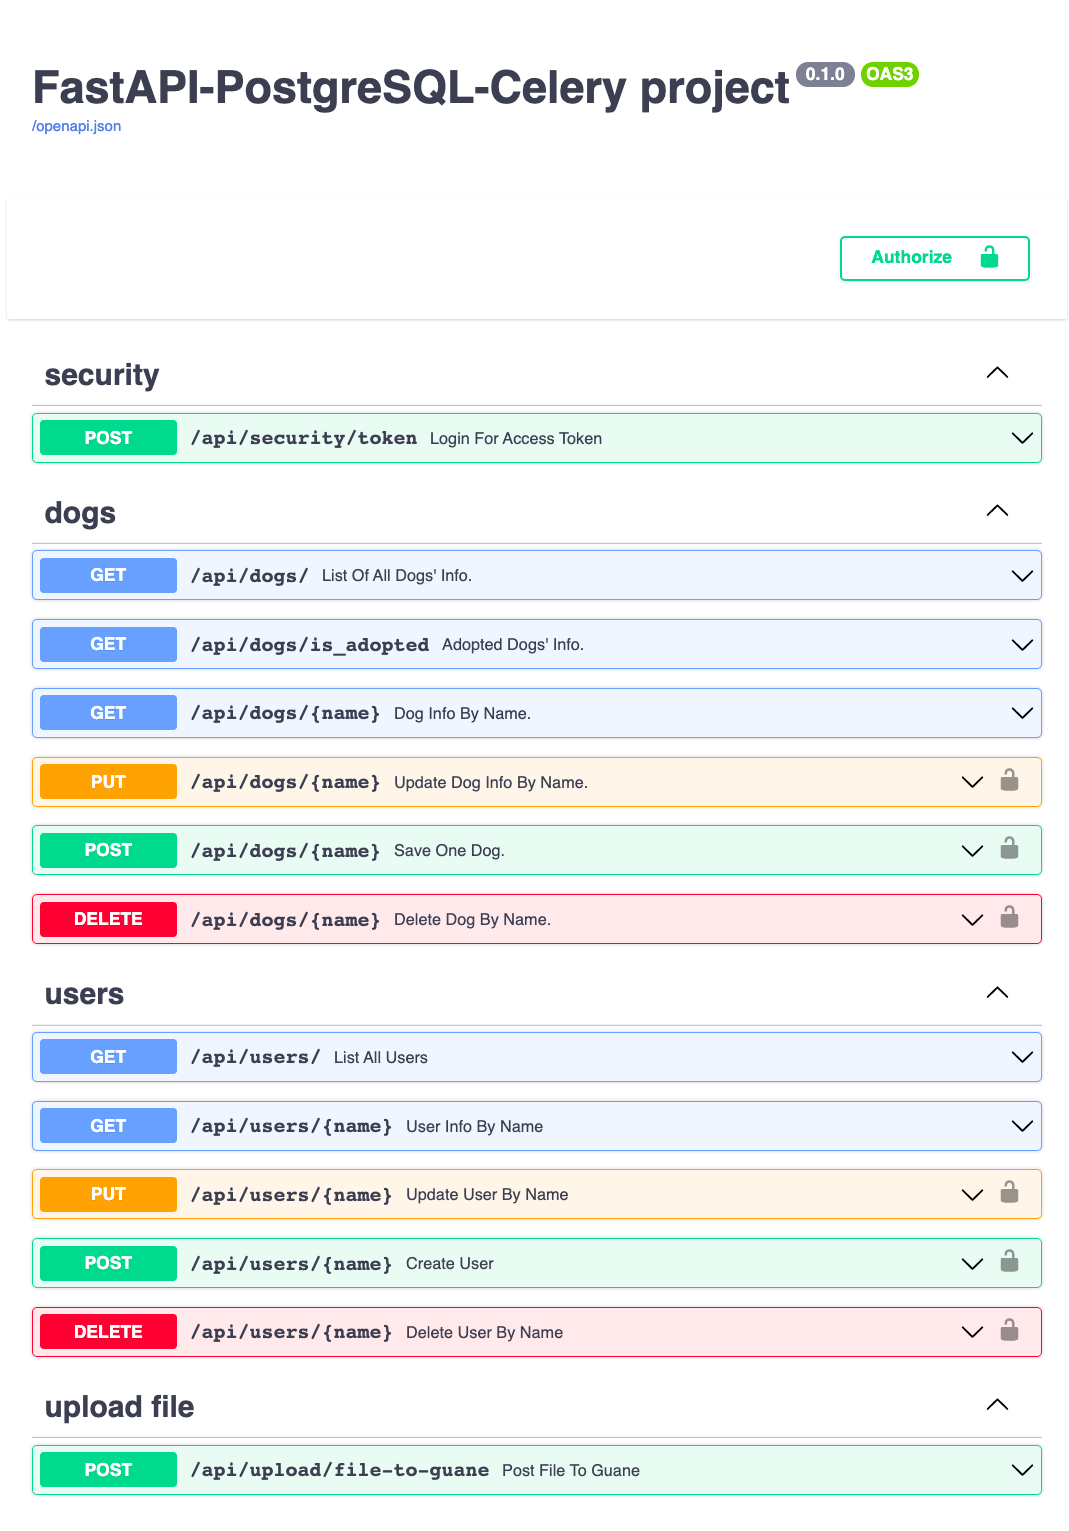
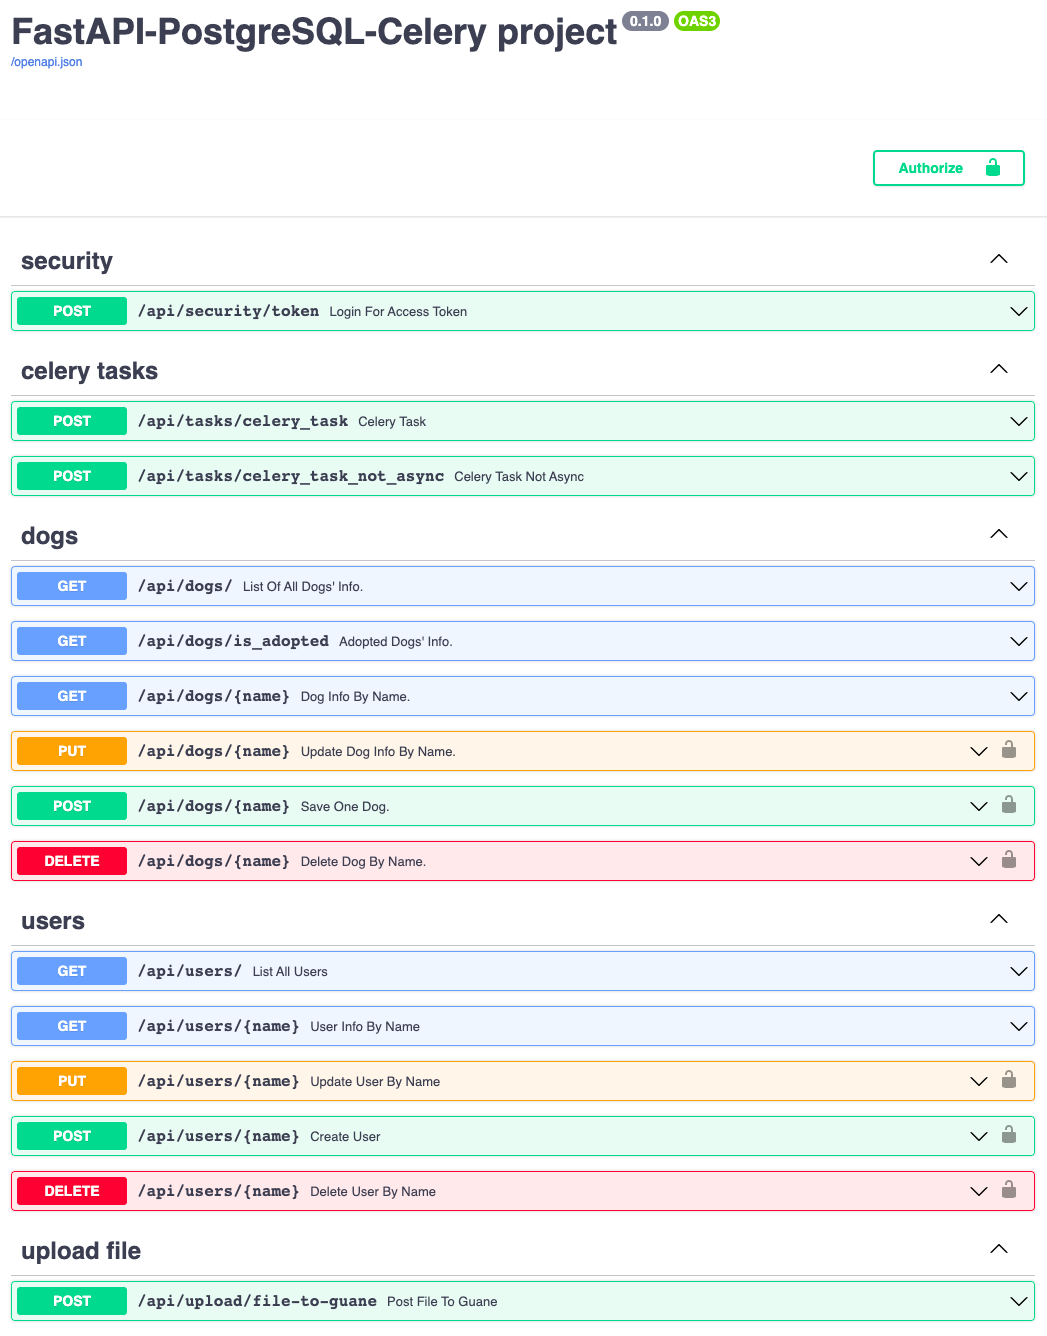
docs: updated readme with new information.

diff --git a/README.md b/README.md
@@ -1,18 +1,32 @@
 # FastAPI - PostgreSQL - Celery - Rabbitmq backend
 
-This source code tries to implement the following architecture:
+This source code implements the following architecture:
 
 <p align="center">
   <img src="img/arch.png" alt="architecture" width="400"/>
 </p>
 
-At this point the python and database containers are dockerized as well as implemented. The missing parts are the celery-related containers and implementation.
+All the required database endpoints are implemented and tested. These include crud operations for ``dog`` and ``user`` PostgreSQL relations. The asynchronous tasks are queued via one endpoint, and the upload of files to guane internal test server (external API) is implemented as another endpoint.
 
-On the other side, all the required endpoints are implemented and tested.
+This app also executes HTTP requests to another external endpoint located at <https://dog.ceo/api/breeds/image/random> which returns a message with an URL to a random dog picture. The URL is stored as the field ``picture`` in the ``dog`` relation.
 
 ## Deploy using Docker
 
-To deploy this project using docker make sure you have cloned this repository, and installed Docker.
+To deploy this project using docker make sure you have cloned this repository
+
+```bash
+$ git clone https://github.com/jearistiz/guane-intern-fastapi
+```
+
+and installed Docker.
+
+Now move to the project root directory
+
+```bash
+$ mv guane-intern-fastapi
+```
+
+Unless otherwise stated, all the commands should be executed from the project root directory denoted as ``~/``.
 
 To run the docker images just prepare your environment variables in the ``~/.env`` file and run
 
@@ -26,13 +40,13 @@ If you have an older Docker version which does not support the ``$ docker compos
 $ docker-compose up --build
 ```
 
-At this moment the docker-compose.yml is configured to create an image of the application and an image of PostgreSQL 13. To see the app working sound and safe, visit the URI ``0.0.0.0:8080/docs`` or the equivalent URI you defined in the ``~/.env`` file (use the format ``${BACKEND_HOST}:${BACKEND_PORT}/docs``) and start sending HTTP requests to the application via this nice interactive documentation view, brought to us automatically thanks to FastAPI integration with OpenAPI
+The docker-compose.yml is configured to create an image of the application named ``application/backend``, an image of PostgreSQL v13.3 –named ``postgres``–, an image of RabbitMQ v3.8 –``rabbitmq``– and an image of Redis v6.2 –``reddis``. To see the application working sound and safe, visit the URI ``0.0.0.0:8080/docs`` or the equivalent URI you defined in the ``~/.env`` file (use the format ``${BACKEND_HOST}:${BACKEND_PORT}/docs``) and start sending HTTP requests to the application via this nice interactive documentation view, brought to us automatically thanks to FastAPI integration with OpenAPI
 
 <p align="center">
   <img src="img/docs.png" alt="architecture" width="400"/>
 </p>
 
-In order to use the POST, PUT or DELETE endpoints you should first authenticate at the top right of the application docs (``0.0.0.0:8080/docs``) in the button that reads ``Authenticate``. I have set up this two super users for you to test these endpoints, use the one you are more comfortable with ;)
+In order to use the POST, PUT or DELETE endpoints you should first authenticate at the top right of the application docs (``0.0.0.0:8080/docs``) in the button that reads ``Authorize``. I have set up this two super users for you to test these endpoints, use the one you feel more comfortable with ;)
 
 ```md
 user: guane
@@ -84,7 +98,7 @@ There are some options for this testing initialization script (which underneath 
 
 ## Deploy without using Docker
 
-The application can also be 'deployed' locally in your machine. It is a bit more dificult since we need to meet more requirements and setup some stuff first, but soon I will post more info on this here.
+The application can also be deployed locally in your machine. It is a bit more dificult since we need to meet more requirements and setup some stuff first, but soon I will post more info on this here.
 
 ## References
 
